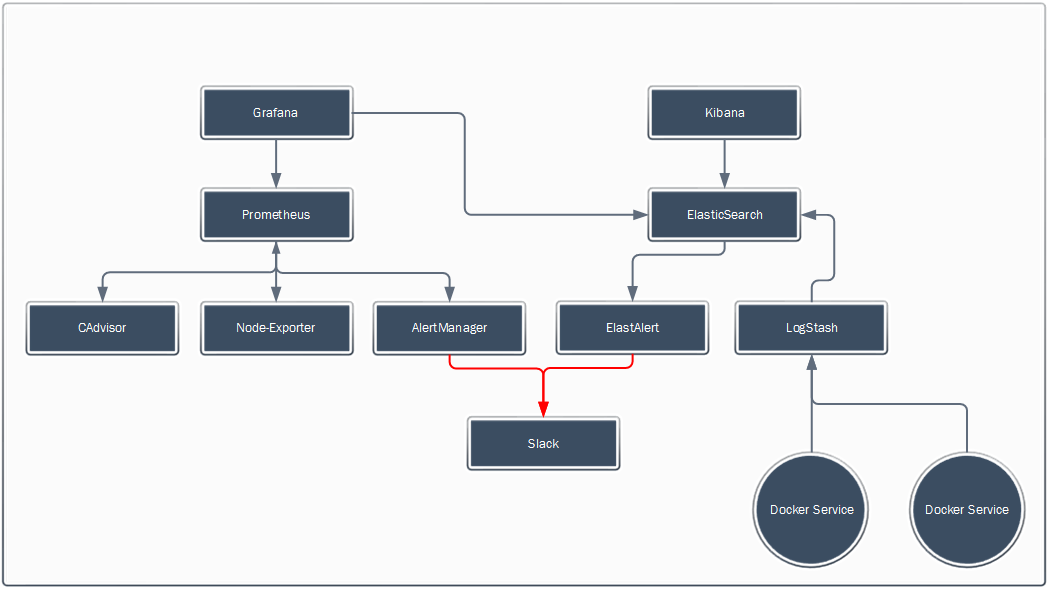
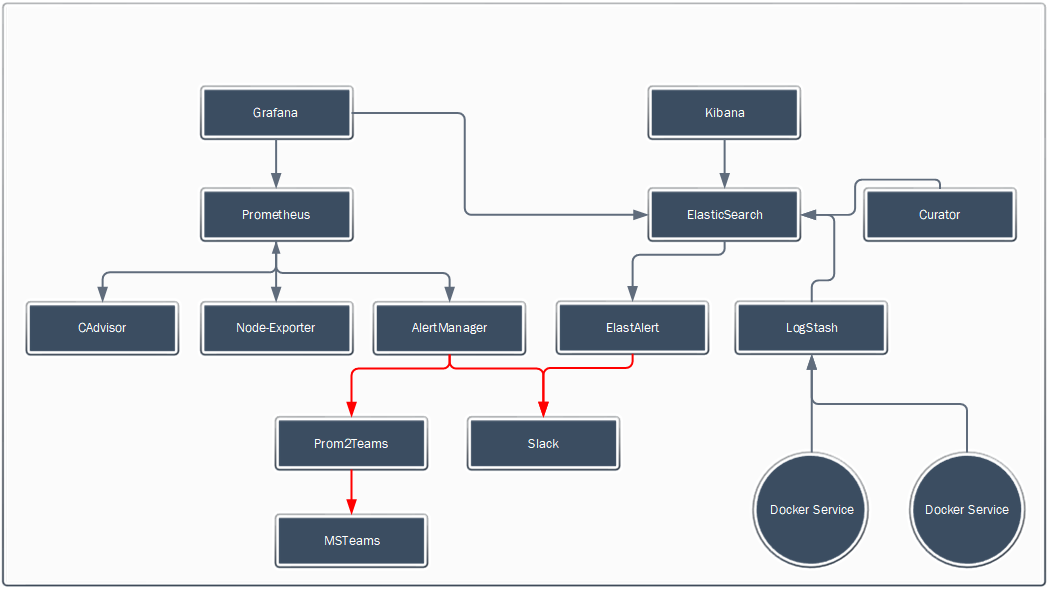
README update

diff --git a/README.md b/README.md
@@ -7,8 +7,6 @@ This repository describes and publishes our setup of monitoring a Docker Swarm w
 As of version 2.x.x. of Prometheus they changed the user to nobody. This means that if you use a persistent data directory is has to be chmod'ed to 777.
 In this example this will be the directory /var/dockerdata/prometheus/data.
 
-If you use this repo i.c.m. with the v.1.8.2 yml files you can leave the user as it is. Just make sure to copy and rename the prometheus.v1.8.2.yml file from configs to prometheus.yml.
-
 ## Prerequisites
 
 - Ubuntu (16.04 or higher) or RHEL host(s) or CentOS7 hosts
@@ -50,6 +48,7 @@ We have split up the monitoring into 2 basic parts:
 #### Directories
 
 Create the following directories:
+- /var/dockerdata/prometheus
 - /var/dockerdata/elasticsearch/data
 - /var/dockerdata/elastalert/logs
 - /var/dockerdata/alertmanager/data
@@ -81,7 +80,7 @@ $ docker network create -d overlay logging
 #### Compose files
 
 Make sure to look at the compose files for the volume mappings.
-In this example everything is mapped to /var/dockerdata/<servicename>/<directories>. Adjust this to your own liking or create the same structure as used in this example.
+In this example everything is mapped to /var/dockerdata/{servicename}/{directories}. Adjust this to your own liking or create the same structure as used in this example.
 
 #### Config Files
 
@@ -91,7 +90,6 @@ In this example everything is mapped to /var/dockerdata/<servicename>/<directori
 | elastalert_supervisord.conf | /var/dockerdata/elastalert/config | - |
 | elastalertconfig.yaml | /var/dockerdata/elastalert/config | - |
 | prometheus.yml | /var/dockerdata/prometheus | - |
-| curator.yml | /var/curator | - |
 
 #### Alert Files
 
@@ -104,7 +102,7 @@ In this example everything is mapped to /var/dockerdata/<servicename>/<directori
 #### Misc files
 | File | Needs to be in <Location> | Remarks |
 | ----- | ----- | ----- |
-| action.yml | /var/curator | - |
+| action.yml | /var/dockerdata/curator | Action file for Curator |
 
 
 ## Installation
